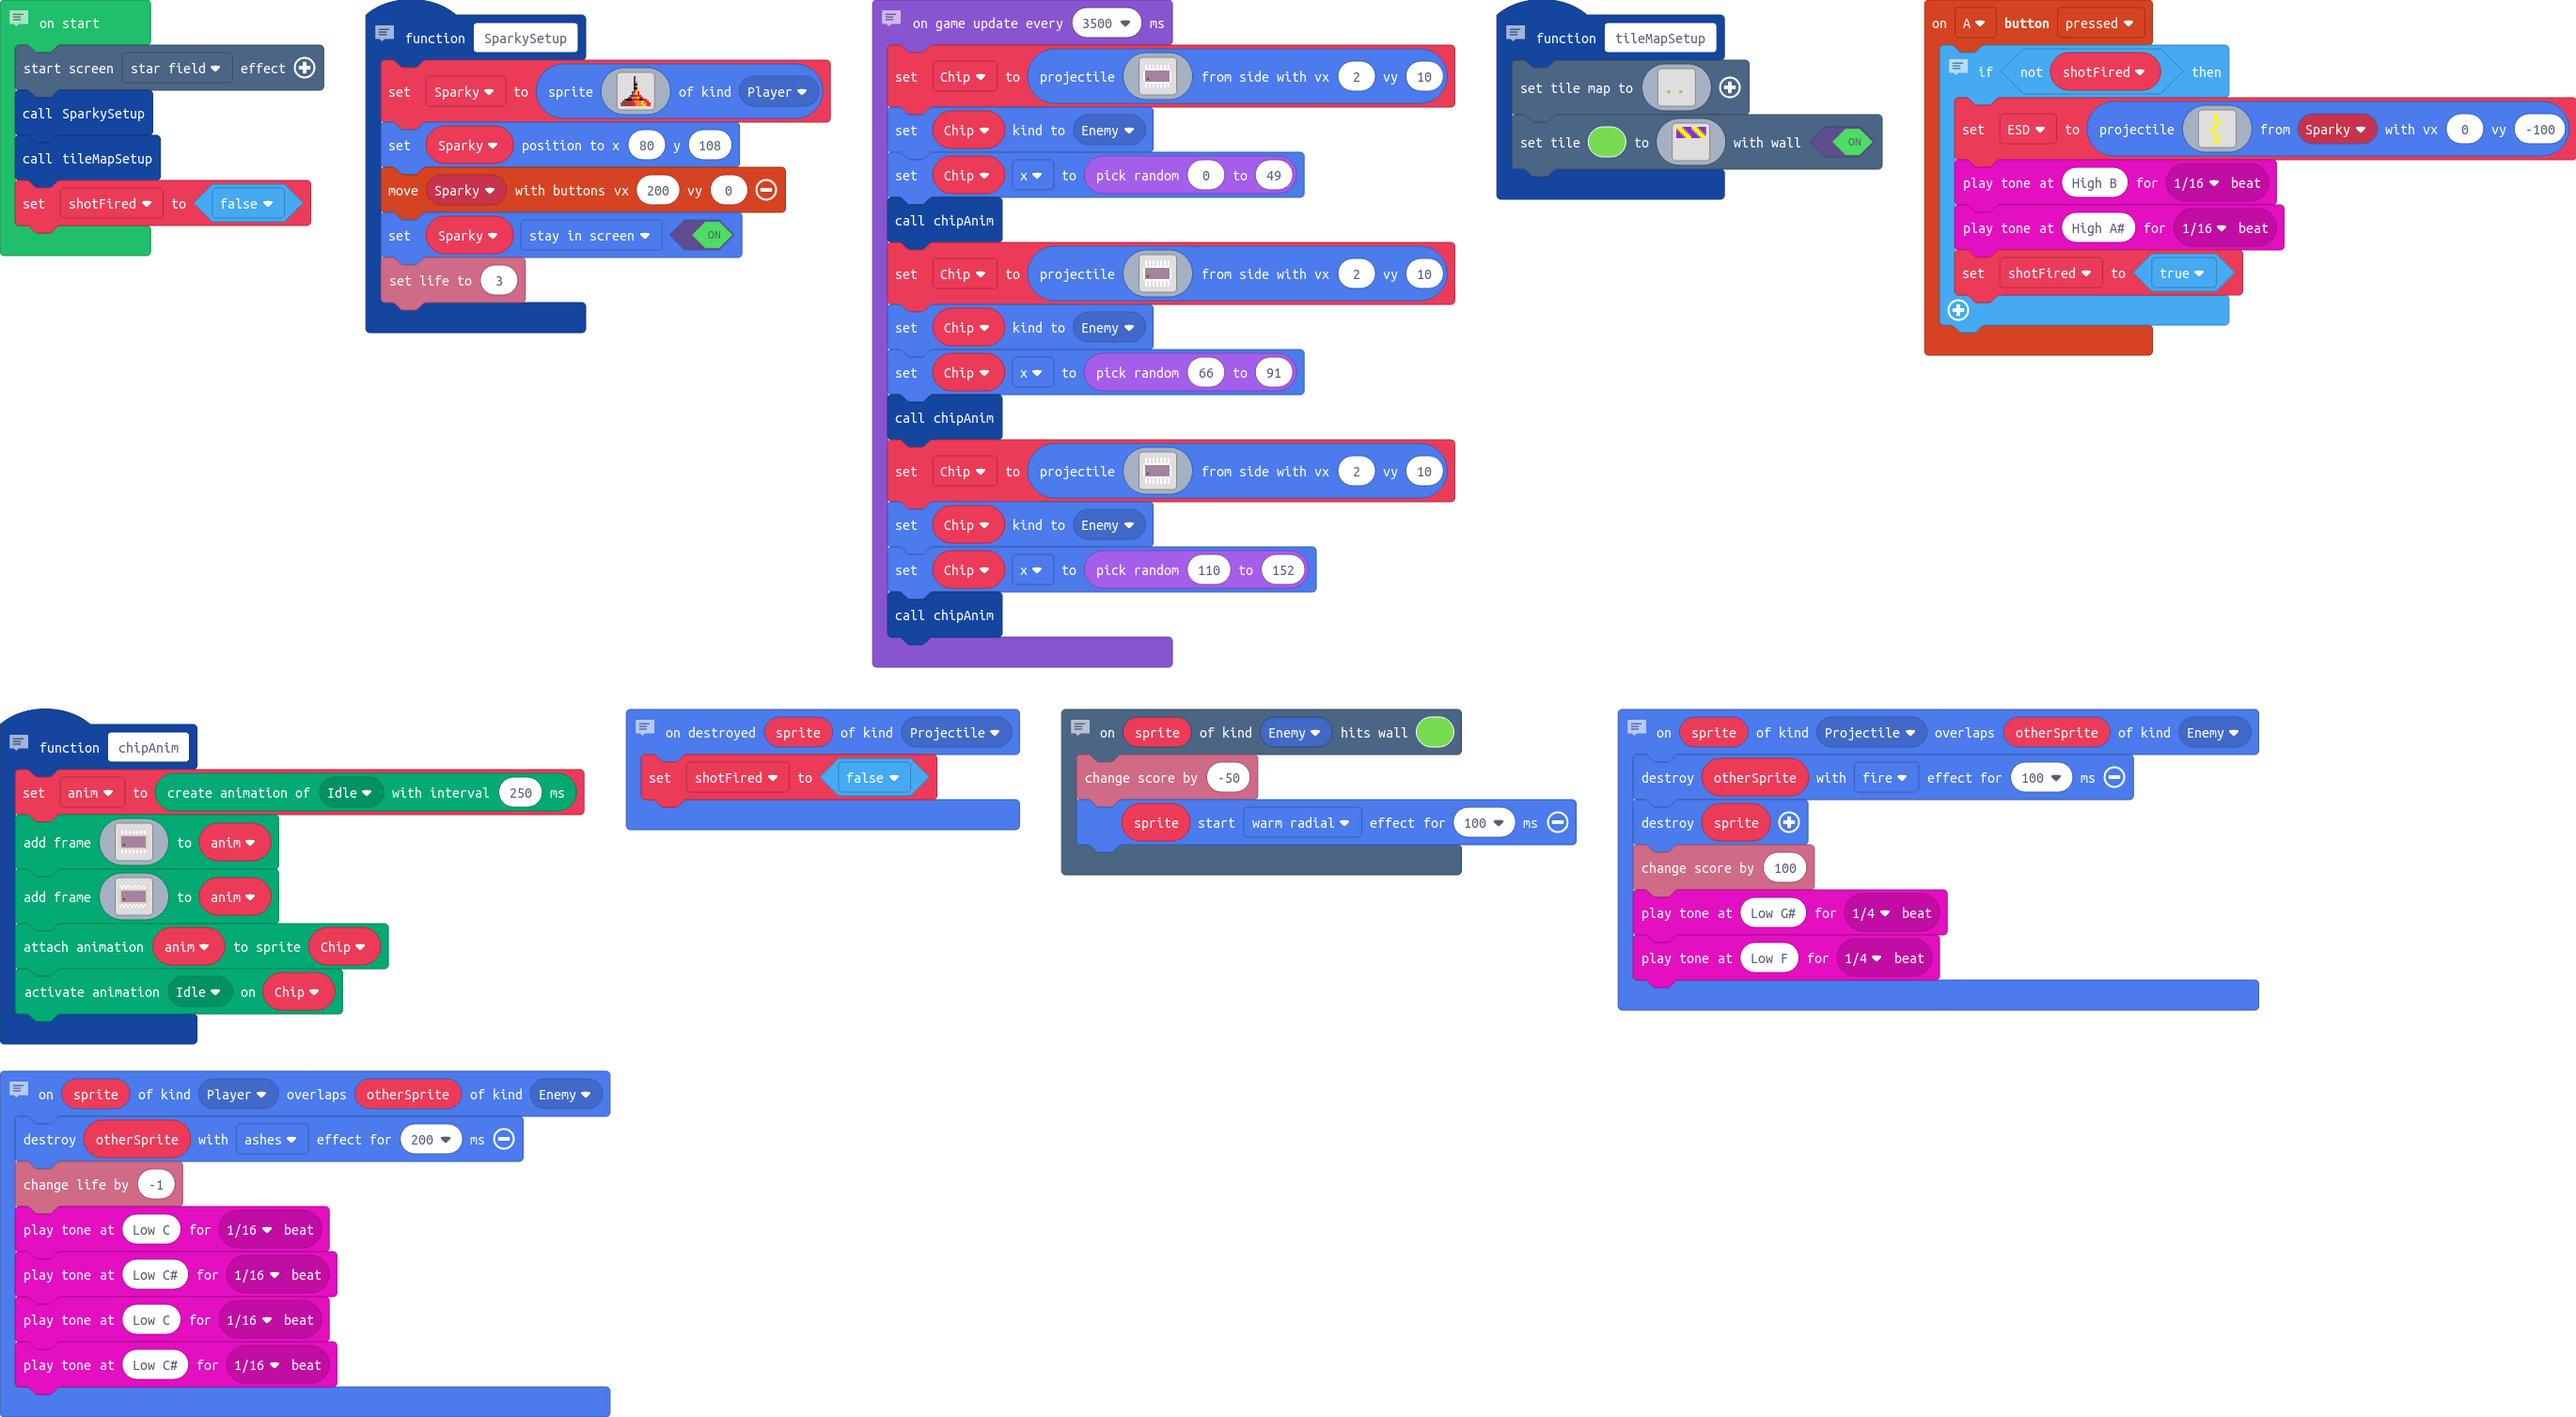
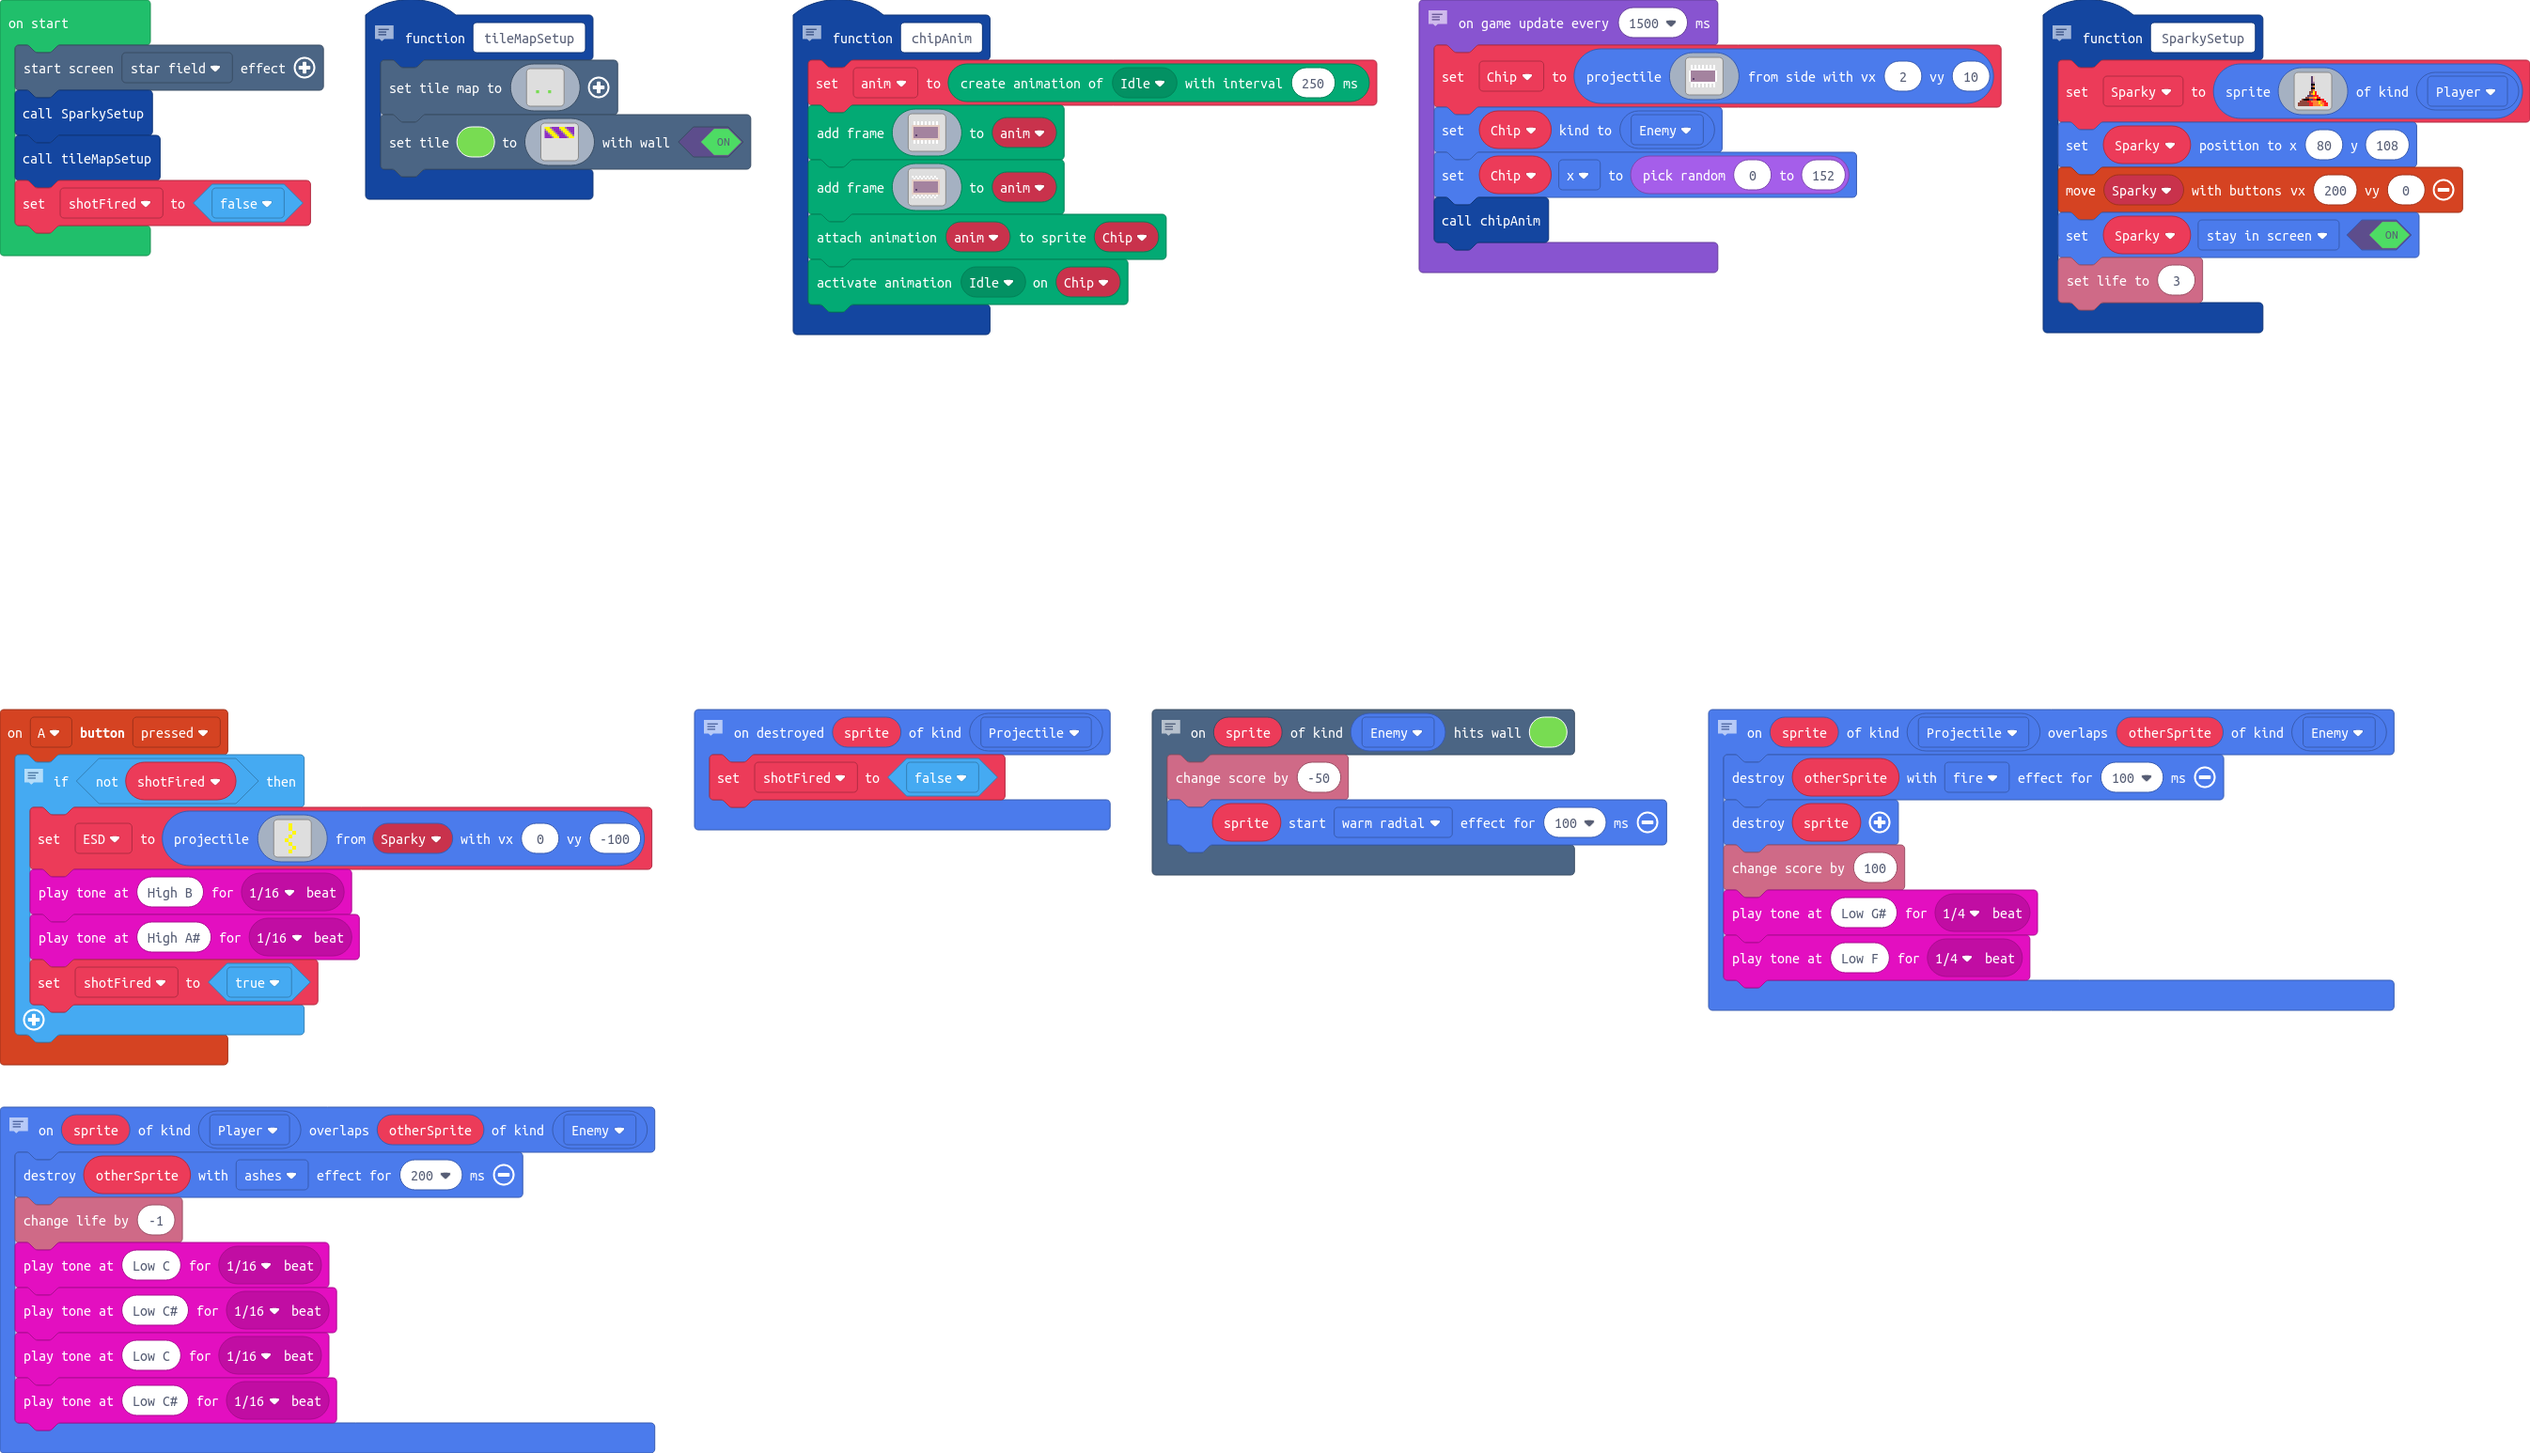
Increase frequency of enemy update

Changed region(s): [[0.0, 0.0, 1.0, 0.9973], [0.2184, 0.9662, 0.2808, 1.0]]

diff --git a/main.ts b/main.ts
@@ -163,7 +163,7 @@ SparkySetup()
 tileMapSetup()
 shotFired = false
 // Periodically create each wave of enemy Chips.
-game.onUpdateInterval(3500, function () {
+game.onUpdateInterval(1500, function () {
     Chip = sprites.createProjectileFromSide(img`
 . . . . . . . . . . . . . . . . 
 . . . . . . . . . . . . . . . . 
@@ -183,48 +183,6 @@ game.onUpdateInterval(3500, function () {
 . . . . . . . . . . . . . . . . 
 `, 2, 10)
     Chip.setKind(SpriteKindLegacy.Enemy)
-    Chip.x = Math.randomRange(0, 49)
-    chipAnim()
-    Chip = sprites.createProjectileFromSide(img`
-. . . . . . . . . . . . . . . . 
-. 1 . 1 . 1 . 1 . 1 . 1 . 1 . . 
-. 1 . 1 . 1 . 1 . 1 . 1 . 1 . . 
-. 1 . 1 . 1 . 1 . 1 . 1 . 1 . . 
-. 1 1 1 1 1 1 1 1 1 1 1 1 1 . . 
-1 b b b b b b b b b b b b b 1 . 
-1 b b b b b b b b b b b b b 1 . 
-1 b b b b b b b b b b b b b 1 . 
-1 b b b b b b b b b b b b b 1 . 
-1 b c b b b b b b b b b b b 1 . 
-1 b b b b b b b b b b b b b 1 . 
-. 1 1 1 1 1 1 1 1 1 1 1 1 1 . . 
-. 1 . 1 . 1 . 1 . 1 . 1 . 1 . . 
-. 1 . 1 . 1 . 1 . 1 . 1 . 1 . . 
-. 1 . 1 . 1 . 1 . 1 . 1 . 1 . . 
-. . . . . . . . . . . . . . . . 
-`, 2, 10)
-    Chip.setKind(SpriteKindLegacy.Enemy)
-    Chip.x = Math.randomRange(66, 91)
-    chipAnim()
-    Chip = sprites.createProjectileFromSide(img`
-. . . . . . . . . . . . . . . . 
-. 1 . 1 . 1 . 1 . 1 . 1 . 1 . . 
-. 1 . 1 . 1 . 1 . 1 . 1 . 1 . . 
-. 1 . 1 . 1 . 1 . 1 . 1 . 1 . . 
-. 1 1 1 1 1 1 1 1 1 1 1 1 1 . . 
-1 b b b b b b b b b b b b b 1 . 
-1 b b b b b b b b b b b b b 1 . 
-1 b b b b b b b b b b b b b 1 . 
-1 b b b b b b b b b b b b b 1 . 
-1 b c b b b b b b b b b b b 1 . 
-1 b b b b b b b b b b b b b 1 . 
-. 1 1 1 1 1 1 1 1 1 1 1 1 1 . . 
-. 1 . 1 . 1 . 1 . 1 . 1 . 1 . . 
-. 1 . 1 . 1 . 1 . 1 . 1 . 1 . . 
-. 1 . 1 . 1 . 1 . 1 . 1 . 1 . . 
-. . . . . . . . . . . . . . . . 
-`, 2, 10)
-    Chip.setKind(SpriteKindLegacy.Enemy)
-    Chip.x = Math.randomRange(110, 152)
+    Chip.x = Math.randomRange(0, 152)
     chipAnim()
 })
